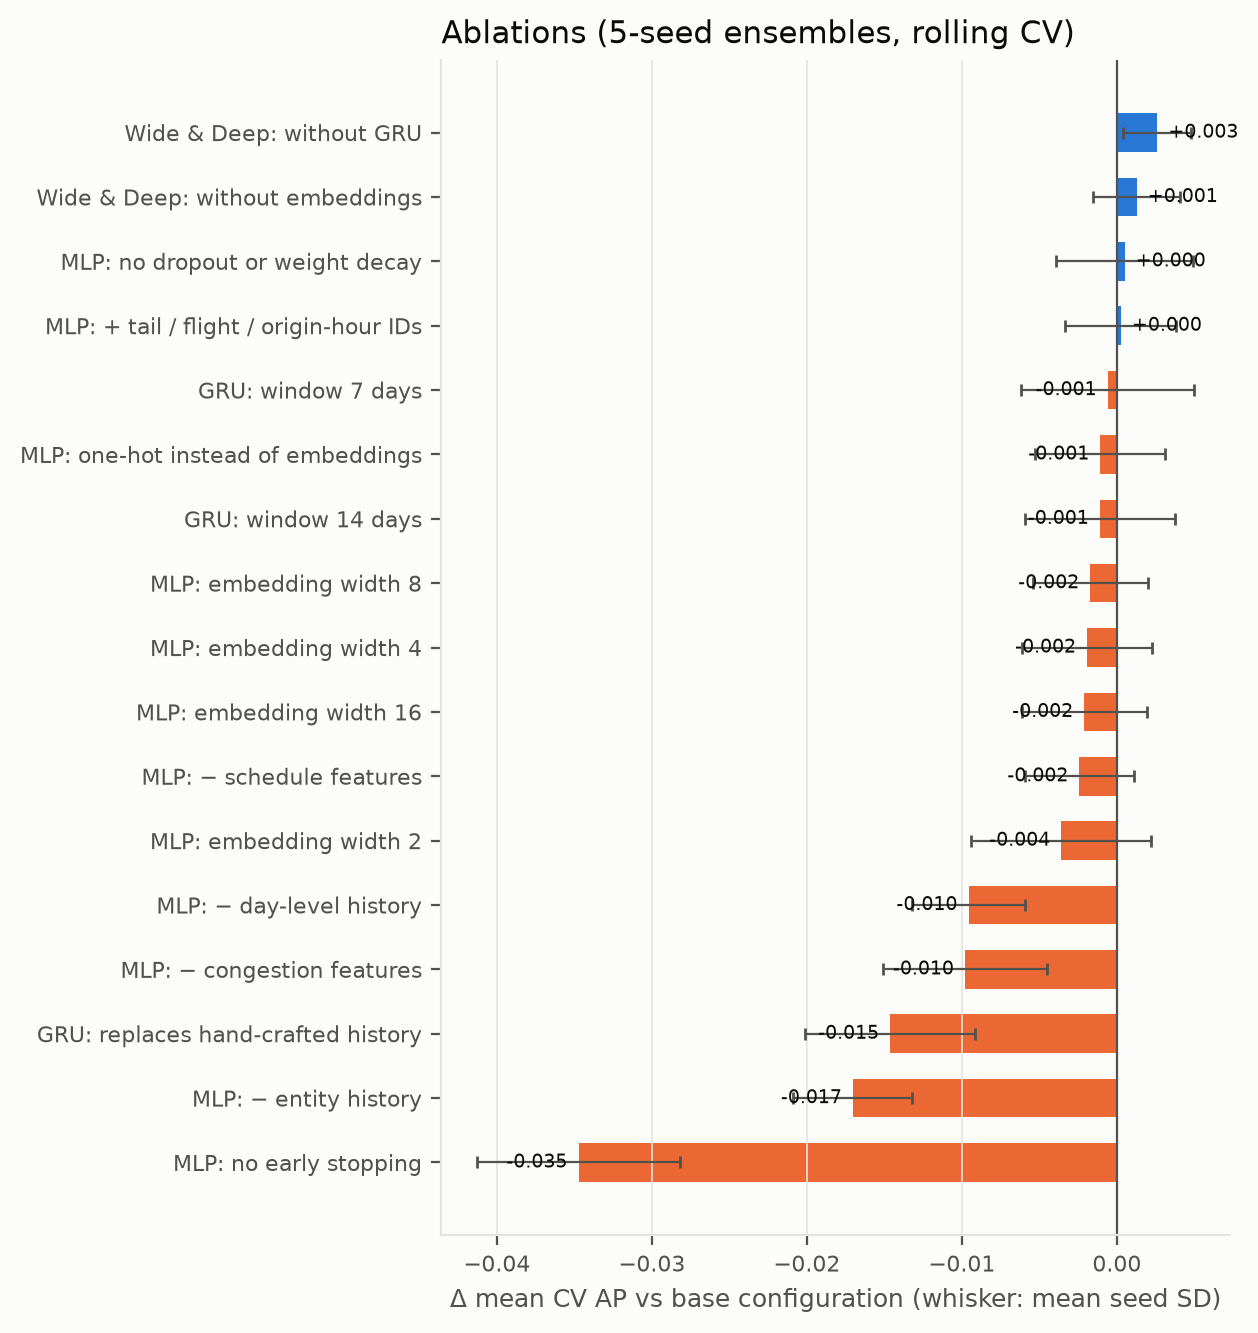
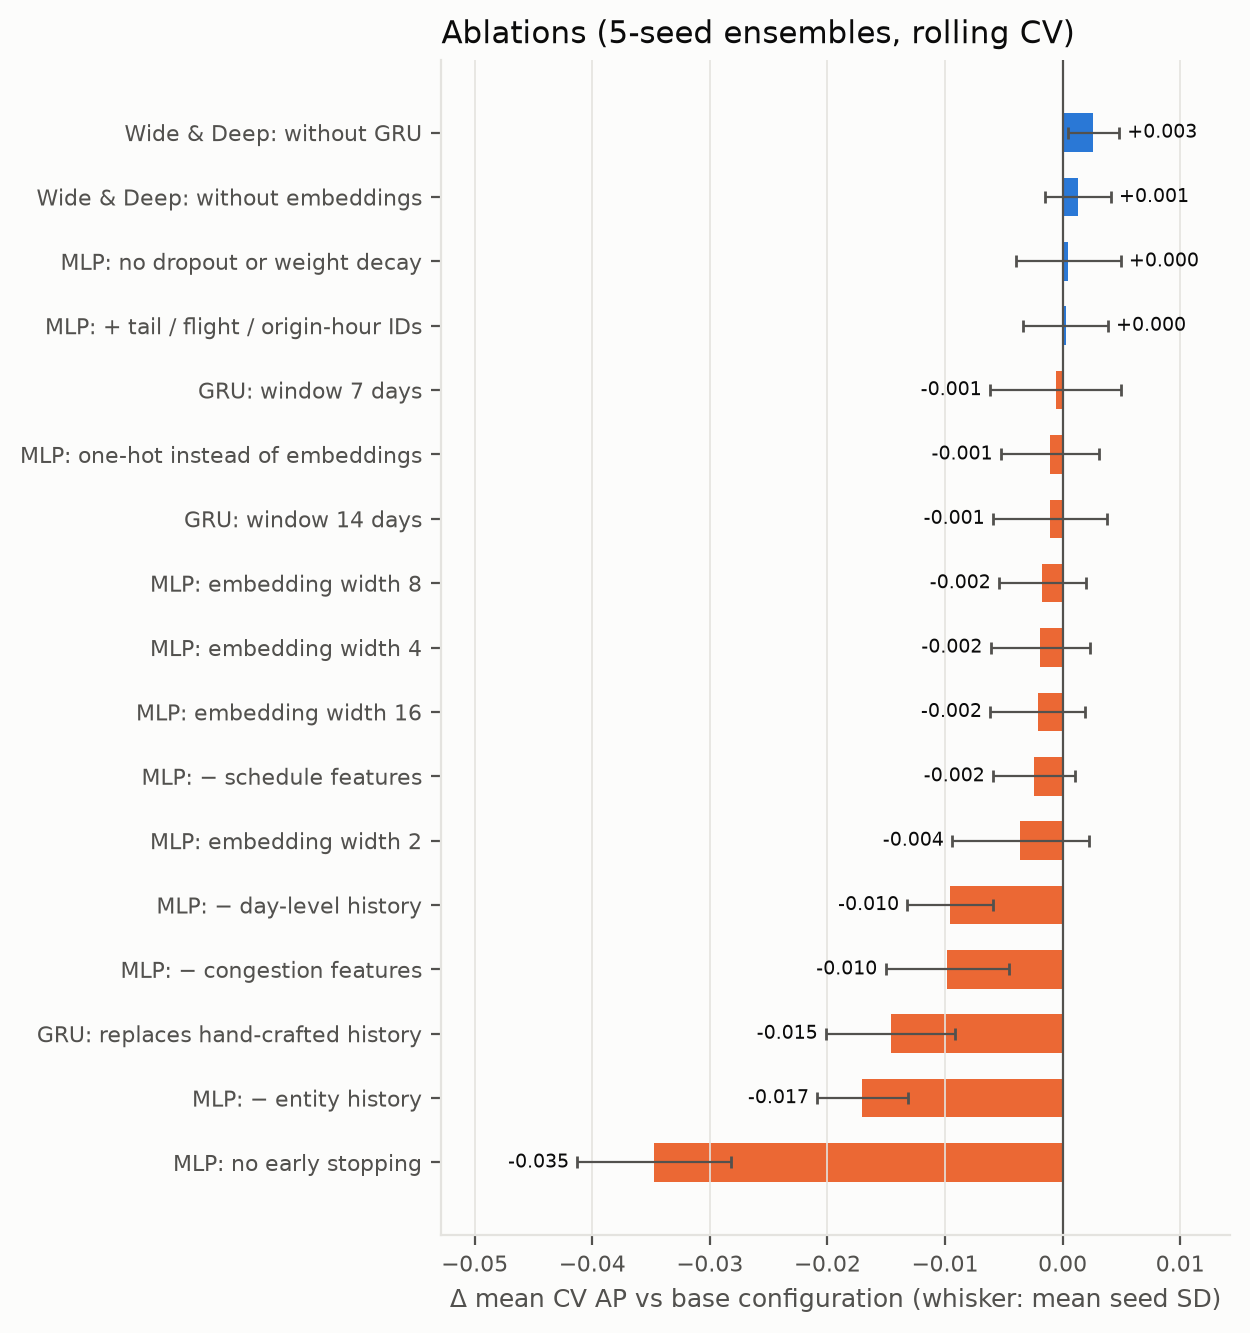
build: tidy report table labels and figure label placement; check every quoted number

diff --git a/phase2/src/aerocast_dl/report.py b/phase2/src/aerocast_dl/report.py
@@ -20,9 +20,12 @@ REPORT_DIR = config.ROOT / "report"
 REPORT_FIGURES = ("cv_models", "learning_curves", "ablation_cv", "embedding_carrier",
                   "reliability_test", "pr_curves_test", "confusion_test", "reschedule_shifts")
 R = config.RESULTS_DIR
+CALIB = {"raw": "none (raw)", "platt": "Platt (Sep)", "isotonic": "isotonic (Sep)",
+         "temperature": "temperature (Sep)", "rolling_platt28": "rolling Platt, 28 d",
+         "rolling_temperature28": "rolling temperature, 28 d"}
 NAME = {"Phase 1 LogReg": "LogReg (Phase 1)", "Phase 1 XGBoost": "XGBoost (Phase 1)",
-        "mlp": "Embedding MLP", "gru": "MLP + GRU history", "wide_deep": "Wide \\& Deep",
-        "emb_xgb": "Embeddings $\\rightarrow$ XGBoost"}
+        "mlp": "Embedding MLP", "gru": "MLP + GRU history", "wide_deep": "Wide & Deep",
+        "emb_xgb": "Embeddings → XGBoost"}   # cells are escaped by to_booktabs
 
 
 def _cv() -> pd.DataFrame:
@@ -45,7 +48,8 @@ def report_tables() -> dict[str, tuple[pd.DataFrame, int]]:
     if (R / "diagnostics.csv").exists():
         d = pd.read_csv(R / "diagnostics.csv")
         out["diagnostics"] = (d.rename(columns={"diagnostic": "", "label": "Run", "cv_pr_auc": "CV AP",
-                                                "best_epochs": "Best epochs"})[["", "Run", "CV AP", "Best epochs"]], 4)
+                                                "best_epochs": "Best epochs"}).replace({"Best epochs": {"///": "--"}})
+                           [["", "Run", "CV AP", "Best epochs"]], 4)
     if (R / "ablation.csv").exists():
         a = pd.read_csv(R / "ablation.csv").sort_values("delta")
         out["ablation"] = (a.rename(columns={"label": "Ablation", "cv": "CV AP", "delta": "$\\Delta$",
@@ -55,12 +59,17 @@ def report_tables() -> dict[str, tuple[pd.DataFrame, int]]:
         c = pd.read_csv(R / "calibrator_selection.csv")
         piv = c.pivot(index="calibrator", columns="model", values="check_ece")
         piv = piv[[m for m in evaluation.MODELS if m in piv.columns]]
-        piv.columns = [NAME[evaluation.CV_NAME[m]] for m in piv.columns]
-        out["calibrator_selection"] = (piv.reset_index().rename(columns={"calibrator": "Oct ECE"}), 3)
+        short = {"logreg": "LogReg", "xgboost": "XGBoost", "mlp": "MLP", "gru": "MLP + GRU",
+                 "wide_deep": "W\\&D", "emb_xgb": "Emb.$\\rightarrow$XGB"}
+        piv.columns = [short[m] for m in piv.columns]
+        piv = piv.reindex([c for c in CALIB if c in piv.index])
+        piv.index = [CALIB[c] for c in piv.index]
+        out["calibrator_selection"] = (piv.rename_axis("Oct ECE").reset_index(), 3)
     if (R / "test_metrics.csv").exists():
         m = pd.read_csv(R / "test_metrics.csv")
         h = m[(m.split == "test") & m.rule_selected].copy()
         h["Model"] = h["model"].map(lambda k: NAME[evaluation.CV_NAME[k]])
+        h["calibration"] = h["calibration"].map(CALIB)
         out["results_test"] = (h.rename(columns={"calibration": "Calibration", "pr_auc": "AP", "roc_auc": "ROC",
                                                  "brier": "Brier", "ece": "ECE", "precision_at_thr": "P@thr",
                                                  "recall_at_thr": "R@thr"})
@@ -72,24 +81,29 @@ def report_tables() -> dict[str, tuple[pd.DataFrame, int]]:
                                                  "f1": "F1"})[["Model", "Precision", "Recall", "Lift", "F1"]], 3)
     if (R / "test_slices.csv").exists():
         s = pd.read_csv(R / "test_slices.csv")
-        dim = {"dest_train_rows": "Dest.", "route_train_rows": "Route", "dep_hour": "Dep. hour"}
-        s = s[s.dimension.isin(dim)].copy()
-        s["Slice"] = s["dimension"].map(dim) + " " + s["slice"].astype(str) + ["" if k else "$^*$" for k in s.stable]
+        dims = [("dep_hour", "Dep. hour", ["05-09", "10-13", "14-17", "18-23"]),
+                ("dest_train_rows", "Dest. rows", ["< 50", "50-499", "500-1,999", ">= 2,000"]),
+                ("route_train_rows", "Route rows", ["< 50", "50-499", "500-1,999", ">= 2,000"])]
+        parts = []
+        for d, lab, order in dims:
+            t = s[s.dimension == d].set_index("slice").loc[order].reset_index()
+            t["Slice"] = [f"{lab} {v.replace('>= ', '≥ ').replace('-', '--')}" + ("" if k else "$^*$")
+                          for v, k in zip(t["slice"], t["stable"])]
+            parts.append(t)
+        s = pd.concat(parts, ignore_index=True)
         out["test_slices"] = (s.rename(columns={"n": "Flights", "ap_logreg": "AP LogReg",
                                                 "ap_gain_mlp": "$\\Delta$ MLP", "ap_gain_gru": "$\\Delta$ GRU",
-                                                "ap_gain_wide_deep": "$\\Delta$ W\\&D"})
+                                                "ap_gain_wide_deep": "$\\Delta$ W\\&D",
+                                                "ap_gain_xgboost": "$\\Delta$ XGB"})
                               [["Slice", "Flights", "AP LogReg", "$\\Delta$ MLP", "$\\Delta$ GRU",
-                                "$\\Delta$ W\\&D"]], 3)
-    if (R / "test_drift.csv").exists():
-        d = pd.read_csv(R / "test_drift.csv")
-        out["test_drift"] = (d.rename(columns={"input": "Input", "calib": "PSI Sep–Oct", "test": "PSI Nov–Dec"})
-                             [["Input", "PSI Sep–Oct", "PSI Nov–Dec"]], 3)
+                                "$\\Delta$ W\\&D", "$\\Delta$ XGB"]], 3)
     if (R / "reschedule_test.csv").exists():
         r = pd.read_csv(R / "reschedule_test.csv")
-        out["reschedule"] = (r.rename(columns={"rule": "Rule", "cost": "Cost/move", "moves_per_day": "Moves/day",
-                                               "predicted_delays_avoided_per_day": "Avoided/day",
-                                               "avoided_per_move": "Avoided/move", "net_benefit": "Net"})
-                             [["Rule", "Cost/move", "Moves/day", "Avoided/day", "Avoided/move", "Net"]], 3)
+        r["rule"] = r["rule"].map(lambda x: "frozen rule" if x.startswith("frozen") else "naive, −1 h")
+        out["reschedule"] = (r.rename(columns={"rule": "Rule", "cost": "Cost", "moves_per_day": "Moves/d",
+                                               "predicted_delays_avoided_per_day": "Avoided/d",
+                                               "avoided_per_move": "Per move", "net_benefit": "Net"})
+                             [["Rule", "Cost", "Moves/d", "Avoided/d", "Per move", "Net"]], 2)
     return out
 
 

diff --git a/phase2/scripts/check_report_numbers.py b/phase2/scripts/check_report_numbers.py
@@ -50,56 +50,79 @@ def pct(name, value):
 cv = pd.concat([pipeline.phase1_cv(), csv("cv_models.csv")], ignore_index=True)
 for m in ["Phase 1 LogReg", "Phase 1 XGBoost", "mlp", "gru", "wide_deep", "emb_xgb"]:
     add(f"CV AP {m}", pick(cv, model=m).cv_pr_auc_mean)
-for m in ["mlp", "gru", "wide_deep"]:
-    add(f"mean best epoch {m}", pick(cv, model=m).mean_best_epoch, 1)
+for m in ["gru", "wide_deep"]:
     add(f"parameters {m}", pick(cv, model=m).n_params, 0)
 add("seed SD wide_deep", pick(cv, model="wide_deep").seed_sd_mean_over_folds)
+sel = json.loads((R / "selection.json").read_text())
+add("LogReg parameters", sel["complexity"]["logreg"], 0)
+
+# --- diagnostics (why the networks trail LogReg)
+diag = csv("diagnostics.csv")
+for d in ["D0", "D1", "D3", "D4", "D5", "D6"]:
+    add(f"diagnostic {d}", pick(diag, diagnostic=d).cv_pr_auc, 4)
 
 # --- ablations (delta vs base, 5-seed ensembles)
 abl = csv("ablation.csv")
-for a in ["mlp_onehot", "mlp_no_es", "mlp_minus_congestion", "mlp_minus_history_entity",
-          "mlp_minus_history_day", "gru_instead_of_history", "wd_no_gru", "wd_onehot", "mlp_ids"]:
+for a in ["mlp_no_es", "mlp_no_reg", "mlp_minus_history_entity", "mlp_minus_congestion",
+          "mlp_minus_history_day", "gru_instead_of_history", "mlp_onehot", "wd_no_gru", "wd_onehot"]:
     add(f"ablation delta {a}", pick(abl, ablation=a).delta)
 for a in ["wd_no_gru", "gru_instead_of_history"]:
     add(f"ablation CV {a}", pick(abl, ablation=a).cv)
 
-# --- diagnostics (why the MLP trails LogReg)
-diag = csv("diagnostics.csv")
-for d in diag["diagnostic"]:
-    add(f"diagnostic {d}", pick(diag, diagnostic=d).cv_pr_auc, 4)
-
-# --- final-model rule and calibration (pre-test)
-sel = json.loads((R / "selection.json").read_text())
+# --- calibration (selected on October)
 calsel = csv("calibrator_selection.csv")
-fin = sel["final_model"]
-raw = pick(calsel, model=fin, calibrator="raw").check_ece
-add("Oct ECE final model raw", raw)
-add("Oct ECE final model chosen", pick(calsel, model=fin, calibrator=sel["calibrator"][fin]).check_ece)
+add("Oct ECE LogReg raw", pick(calsel, model="logreg", calibrator="raw").check_ece)
+add("Oct ECE LogReg chosen", pick(calsel, model="logreg", calibrator=sel["calibrator"]["logreg"]).check_ece)
+assert sel["final_model"] == "logreg" and sel["reschedule"]["params"] == {"window": 2, "delta": 0.02}
+p1sum = json.loads((ROOT.parent / "phase1" / "results" / "summary.json").read_text())
+for s_ in ("train", "calib", "test"):
+    pct(f"{s_} base rate", p1sum["splits"][s_]["delay_rate"])
+add("fit rows", json.loads((R / "data_summary.json").read_text())["fit_rows"], 0)
+add("rows excluded by the clock", json.loads((R / "data_summary.json").read_text())["fit_rows_excluded_by_clock"], 0)
 
 # --- the one test evaluation
-if (R / "test_metrics.csv").exists():
-    m = csv("test_metrics.csv")
-    t = m[(m.split == "test") & m.rule_selected]
-    for k in t["model"]:
-        r = pick(t, model=k)
-        add(f"test AP {k}", r.pr_auc)
-        add(f"test ECE {k}", r.ece)
-    boot = json.loads((R / "test_bootstrap.json").read_text())
-    for k in ("mlp", "gru", "wide_deep"):  # paired AP difference vs Phase 1 LogReg
-        b = boot[k]["pr_auc"]
-        add(f"bootstrap {k} AP diff", b["diff"])
-        add(f"bootstrap {k} CI low", b["ci_lo"])
-        add(f"bootstrap {k} CI high", b["ci_hi"])
-    pol = csv("test_policies.csv")
-    p = pol[pol.policy == "daily top 10%"]
-    for k in p["model"]:
-        add(f"top10 precision {k}", pick(p, model=k).precision)
-if (R / "reschedule_test.csv").exists():
-    rs = csv("reschedule_test.csv")
-    for rule in rs["rule"]:
-        r = pick(rs, rule=rule)
-        add(f"reschedule {rule} moves/day", r.moves_per_day, 1)
-        add(f"reschedule {rule} avoided/day", r.predicted_delays_avoided_per_day, 1)
+m = csv("test_metrics.csv")
+t = m[(m.split == "test") & m.rule_selected]
+for k in ["logreg", "xgboost", "mlp", "gru", "wide_deep", "emb_xgb"]:
+    add(f"test AP {k}", pick(t, model=k).pr_auc)
+    add(f"test ECE {k}", pick(t, model=k).ece)
+for sp in ("test_m11", "test_m12"):
+    add(f"LogReg ECE {sp}", pick(m[m.rule_selected], model="logreg", split=sp).ece)
+pct("December base rate", pick(m[m.rule_selected], model="logreg", split="test_m12").base_rate)
+add("LogReg precision at frozen threshold", pick(t, model="logreg").precision_at_thr)
+boot = json.loads((R / "test_bootstrap.json").read_text())
+for k in ("mlp", "gru", "wide_deep"):
+    b = boot[k]["pr_auc"]
+    add(f"bootstrap {k} AP diff", b["diff"])
+    add(f"bootstrap {k} CI low", b["ci_lo"])
+    add(f"bootstrap {k} CI high", b["ci_hi"])
+pol = csv("test_policies.csv")
+p = pol[pol.policy == "daily top 10%"]
+for k in p["model"]:
+    add(f"top10 precision {k}", pick(p, model=k).precision)
+
+# --- slices and drift
+sl = csv("test_slices.csv")
+add("GRU gain 05-09", pick(sl, dimension="dep_hour", slice="05-09").ap_gain_gru)
+add("W&D gain rare destinations", pick(sl, dimension="dest_train_rows", slice="< 50").ap_gain_wide_deep)
+add("rare-destination test flights", pick(sl, dimension="dest_train_rows", slice="< 50").n, 0)
+car = sl[sl.dimension == "carrier"]
+assert (car.ap_gain_wide_deep > 0).sum() == 13 and (car.ap_gain_gru > 0).sum() == 13
+assert (car.ap_gain_xgboost > 0).sum() == 15 and len(car) == 16
+dr = csv("test_drift.csv").set_index("input")
+add("max network/LogReg score PSI on test",
+    dr.loc[[f"score: {k}" for k in ("logreg", "mlp", "gru", "wide_deep")], "test"].max())
+
+# --- rescheduling
+tun = csv("reschedule_tuning.csv")
+rs = csv("reschedule_test.csv")
+fr, nv = rs[rs.rule.str.startswith("frozen")].iloc[0], rs[rs.rule.str.startswith("naive")].iloc[0]
+add("frozen moves/day", fr.moves_per_day, 1)
+add("frozen avoided/day", fr.predicted_delays_avoided_per_day, 1)
+add("naive moves/day", nv.moves_per_day, 1)
+add("naive avoided/day", nv.predicted_delays_avoided_per_day, 1)
+assert (rs[rs.rule.str.startswith("frozen")].set_index("cost").net_benefit.loc[[0.02, 0.05]] * [1, -1] > 0).all()
+assert (rs[rs.rule.str.startswith("naive")].set_index("cost").net_benefit.loc[[0.02, 0.05]] < 0).all()
 
 bad = []
 for name, value, dec, as_pct in checks:

diff --git a/phase2/src/aerocast_dl/plots.py b/phase2/src/aerocast_dl/plots.py
@@ -46,10 +46,14 @@ def ablation(tbl: pd.DataFrame):
     cols = [GAIN if d > 0 else LOSS for d in tbl["delta"]]
     ax.barh(y, tbl["delta"], color=cols, height=0.6)
     ax.errorbar(tbl["delta"], y, xerr=tbl["seed_sd"], fmt="none", ecolor=TEXT_2, lw=0.8, capsize=2)
-    for yi, d in zip(y, tbl["delta"]):
-        ax.annotate(f"{d:+.3f}", (d, yi), xytext=(4 if d >= 0 else -4, 0), textcoords="offset points",
+    for yi, d, sd in zip(y, tbl["delta"], tbl["seed_sd"]):   # label beyond the whisker
+        end = d + sd if d >= 0 else d - sd
+        ax.annotate(f"{d:+.3f}", (end, yi), xytext=(3 if d >= 0 else -3, 0), textcoords="offset points",
                     ha="left" if d >= 0 else "right", va="center", fontsize=7, color=TEXT)
     ax.axvline(0, color=TEXT_2, lw=0.8)
+    lo = min(0, (tbl["delta"] - tbl["seed_sd"]).min())
+    hi = max(0, (tbl["delta"] + tbl["seed_sd"]).max())
+    ax.set_xlim(lo - 0.25 * (hi - lo), hi + 0.2 * (hi - lo))      # room for the value labels
     ax.set_yticks(y, tbl["label"])
     ax.set_xlabel("Δ mean CV AP vs base configuration (whisker: mean seed SD)")
     ax.set_title("Ablations (5-seed ensembles, rolling CV)", loc="left")
@@ -108,8 +112,10 @@ def reliability(curves: dict, n_bins: int = 15):
         t = reliability_table(y, p, n_bins)
         t = t[t["n"] >= 50]
         ax.plot(t["mean_pred"], t["frac_pos"], color=SERIES[k], lw=2, marker="o", ms=4)
-        ax.annotate(name, (t["mean_pred"].iloc[-1], t["frac_pos"].iloc[-1]), xytext=(4, 0),
-                    textcoords="offset points", fontsize=7.5, color=TEXT, va="center")
+        # end-of-line labels, staggered vertically so overlapping curves stay legible
+        ax.annotate(name, (t["mean_pred"].iloc[-1], t["frac_pos"].iloc[-1]),
+                    xytext=(6, 10 - 12 * k), textcoords="offset points", fontsize=7.5, color=TEXT,
+                    va="center", arrowprops=dict(arrowstyle="-", color=SERIES[k], lw=0.6))
     ax.set_xlabel("mean predicted risk")
     ax.set_ylabel("observed delay rate")
     ax.set_xlim(0, 1)
